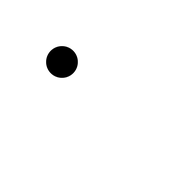
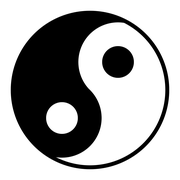
Default to light, make dark pure black, and swap the theme toggle for a spinning yin-yang
The favicon moves to the site's new full yin-yang too.

diff --git a/index.html b/index.html
@@ -1,5 +1,5 @@
 <!doctype html>
-<html lang="en" data-theme="dark">
+<html lang="en" data-theme="light">
   <head>
     <meta charset="utf-8" />
     <meta name="viewport" content="width=device-width, initial-scale=1" />
@@ -10,7 +10,7 @@
       // Runs before the first paint, so the page never flashes the wrong theme
       // or a fully rendered header
       (function () {
-        document.documentElement.setAttribute('data-theme', localStorage.getItem('theme') || 'dark');
+        document.documentElement.setAttribute('data-theme', localStorage.getItem('theme') || 'light');
       })();
     </script>
 
@@ -37,20 +37,12 @@
                 <path d="M3 7h11a6 6 0 0 1 0 12H6"></path>
               </svg>
             </a>
-            <button class="icon-button" id="theme-toggle" onclick="toggleTheme()" aria-label="Switch to light mode" title="Switch to light mode">
-              <svg class="icon-sun" width="18" height="18" viewBox="0 0 24 24" fill="none" stroke="currentColor" stroke-width="2" stroke-linecap="round" stroke-linejoin="round">
-                <circle cx="12" cy="12" r="4"></circle>
-                <line x1="12" y1="2" x2="12" y2="4"></line>
-                <line x1="12" y1="20" x2="12" y2="22"></line>
-                <line x1="4.93" y1="4.93" x2="6.34" y2="6.34"></line>
-                <line x1="17.66" y1="17.66" x2="19.07" y2="19.07"></line>
-                <line x1="2" y1="12" x2="4" y2="12"></line>
-                <line x1="20" y1="12" x2="22" y2="12"></line>
-                <line x1="4.93" y1="19.07" x2="6.34" y2="17.66"></line>
-                <line x1="17.66" y1="6.34" x2="19.07" y2="4.93"></line>
-              </svg>
-              <svg class="icon-moon" width="18" height="18" viewBox="0 0 24 24" fill="none" stroke="currentColor" stroke-width="2" stroke-linecap="round" stroke-linejoin="round">
-                <path d="M21 12.79A9 9 0 1 1 11.21 3 7 7 0 0 0 21 12.79z"></path>
+            <button class="icon-button" id="theme-toggle" onclick="toggleTheme()" aria-label="Switch to dark mode" title="Switch to dark mode">
+              <svg class="icon-yinyang" width="18" height="18" viewBox="0 0 24 24" fill="none" stroke="currentColor" stroke-width="1.75">
+                <circle class="yang" cx="12" cy="12" r="9.5"></circle>
+                <path class="yin" d="M12 2.5 A9.5 9.5 0 0 0 12 21.5 A4.75 4.75 0 0 0 12 12 A4.75 4.75 0 0 1 12 2.5 Z" stroke="none"></path>
+                <circle class="yin" cx="12" cy="7.25" r="1.5" stroke="none"></circle>
+                <circle class="yang" cx="12" cy="16.75" r="1.5" stroke="none"></circle>
               </svg>
             </button>
           </div>
@@ -92,10 +84,20 @@
         toggle.setAttribute('title', label);
       }
 
+      // Each switch spins the yin-yang anywhere from one to three full turns,
+      // picked at random: clockwise into dark, counterclockwise into light. The
+      // longer spins get a little more time.
+      var yinyangAngle = 0;
+
       function toggleTheme() {
         var next = document.documentElement.getAttribute('data-theme') === 'dark' ? 'light' : 'dark';
         localStorage.setItem('theme', next);
         applyTheme(next);
+        var spin = 360 + Math.random() * 720;  // degrees
+        yinyangAngle += next === 'dark' ? spin : -spin;
+        var icon = document.querySelector('#theme-toggle .icon-yinyang');
+        icon.style.transitionDuration = (0.5 + 0.2 * spin / 360) + 's';
+        icon.style.setProperty('--angle', yinyangAngle + 'deg');
       }
 
       applyTheme(document.documentElement.getAttribute('data-theme'));

diff --git a/style.css b/style.css
@@ -1,19 +1,8 @@
 /**************/
 /* THEME      */
 /**************/
-/* Dark is the default; the toggle opts into light and remembers the choice */
+/* Light is the default; the toggle opts into dark and remembers the choice */
 :root {
-  color-scheme: dark;
-  --bg: #202020;
-  --text: #f2f2f0;
-  --muted: #8a8a8a;
-  --rule: #3a3a3a;
-  --link: #9a9a98;
-  --underline: #55554f;
-  --race: #fc4c02;
-}
-
-:root[data-theme="light"] {
   color-scheme: light;
   --bg: #ffffff;
   --text: #16150f;
@@ -22,6 +11,17 @@
   --link: #6f6e6a;
   --underline: #d3d2ce;
   --race: #d84302;
+}
+
+:root[data-theme="dark"] {
+  color-scheme: dark;
+  --bg: #000000;
+  --text: #f2f2f0;
+  --muted: #8a8a8a;
+  --rule: #3a3a3a;
+  --link: #9a9a98;
+  --underline: #55554f;
+  --race: #fc4c02;
 }
 
 /**************/
@@ -110,17 +110,34 @@ a:focus {
   opacity: 1;
 }
 
-.icon-sun,
-.icon-moon {
-  display: none;
+/* The theme toggle is a yin-yang that spins each time it is pressed, slowing
+   as it settles; the script picks how far it turns and how long that takes */
+.icon-yinyang {
+  --angle: 0deg;
+  --yin: currentColor;
+  --yang: var(--bg);
+  transform: rotate(var(--angle));
+  transition: transform 0.8s cubic-bezier(0.22, 1, 0.36, 1);
 }
 
-:root:not([data-theme="light"]) #theme-toggle .icon-sun {
-  display: block;
+/* Yin is always the darker half, so it trades colors with yang in dark mode */
+:root[data-theme="dark"] .icon-yinyang {
+  --yin: var(--bg);
+  --yang: currentColor;
 }
 
-:root[data-theme="light"] #theme-toggle .icon-moon {
-  display: block;
+.icon-yinyang .yin {
+  fill: var(--yin);
+}
+
+.icon-yinyang .yang {
+  fill: var(--yang);
+}
+
+@media (prefers-reduced-motion: reduce) {
+  .icon-yinyang {
+    transition: none;
+  }
 }
 
 /* Sits under the title at the same size, in muted gray */
@@ -194,15 +211,15 @@ a:focus {
    colour-blind readers, so the light steps are pushed apart until they clear
    the separation threshold on their own — no dashes needed. */
 :root {
-  --series-run: #e66767;
-  --series-bike: #008300;
-  --series-swim: #3987e5;
-}
-
-:root[data-theme="light"] {
   --series-run: #e8605f;
   --series-bike: #006e00;
   --series-swim: #2a78d6;
+}
+
+:root[data-theme="dark"] {
+  --series-run: #e66767;
+  --series-bike: #008300;
+  --series-swim: #3987e5;
 }
 
 .year-stats:not(:empty) {
@@ -452,7 +469,7 @@ a:focus {
   filter: saturate(0.32) contrast(0.95);
 }
 
-:root:not([data-theme="light"]) .map {
+:root[data-theme="dark"] .map {
   filter: saturate(0.28) brightness(0.72) contrast(0.95);
 }
 
